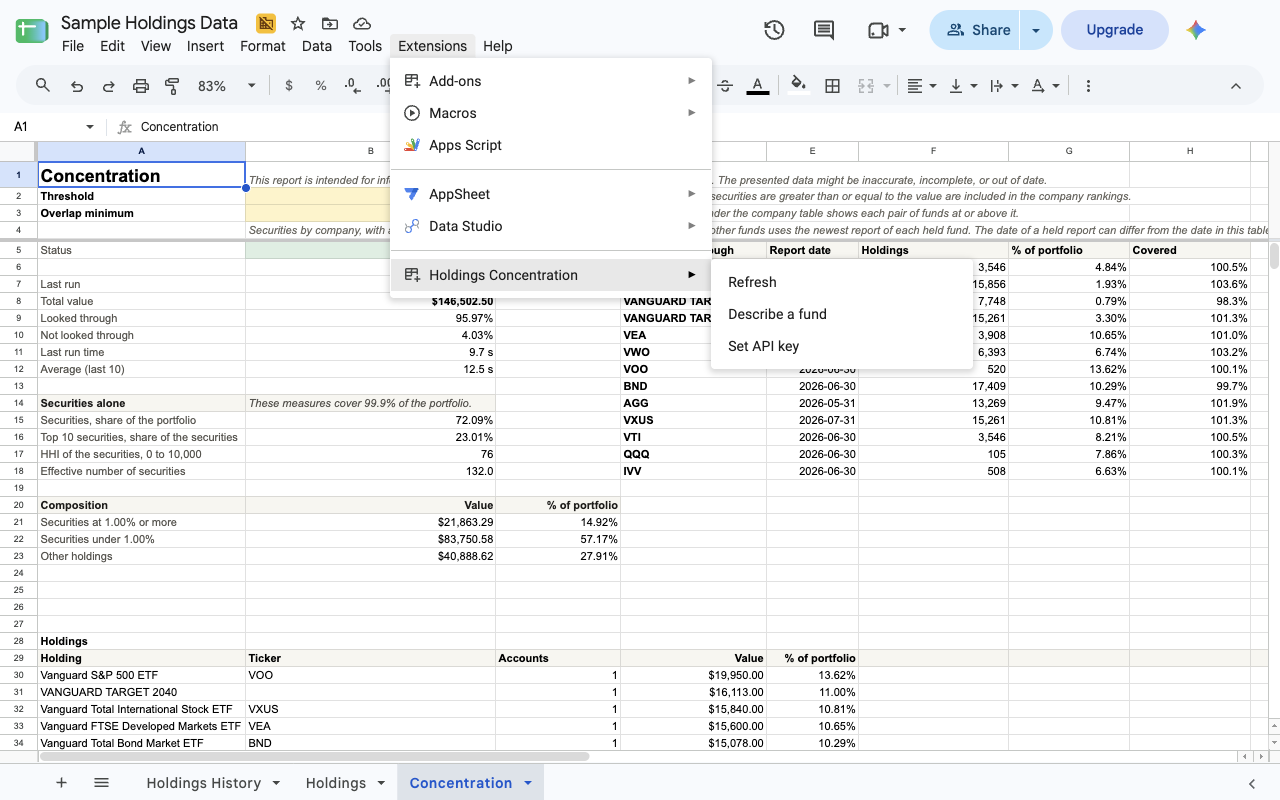
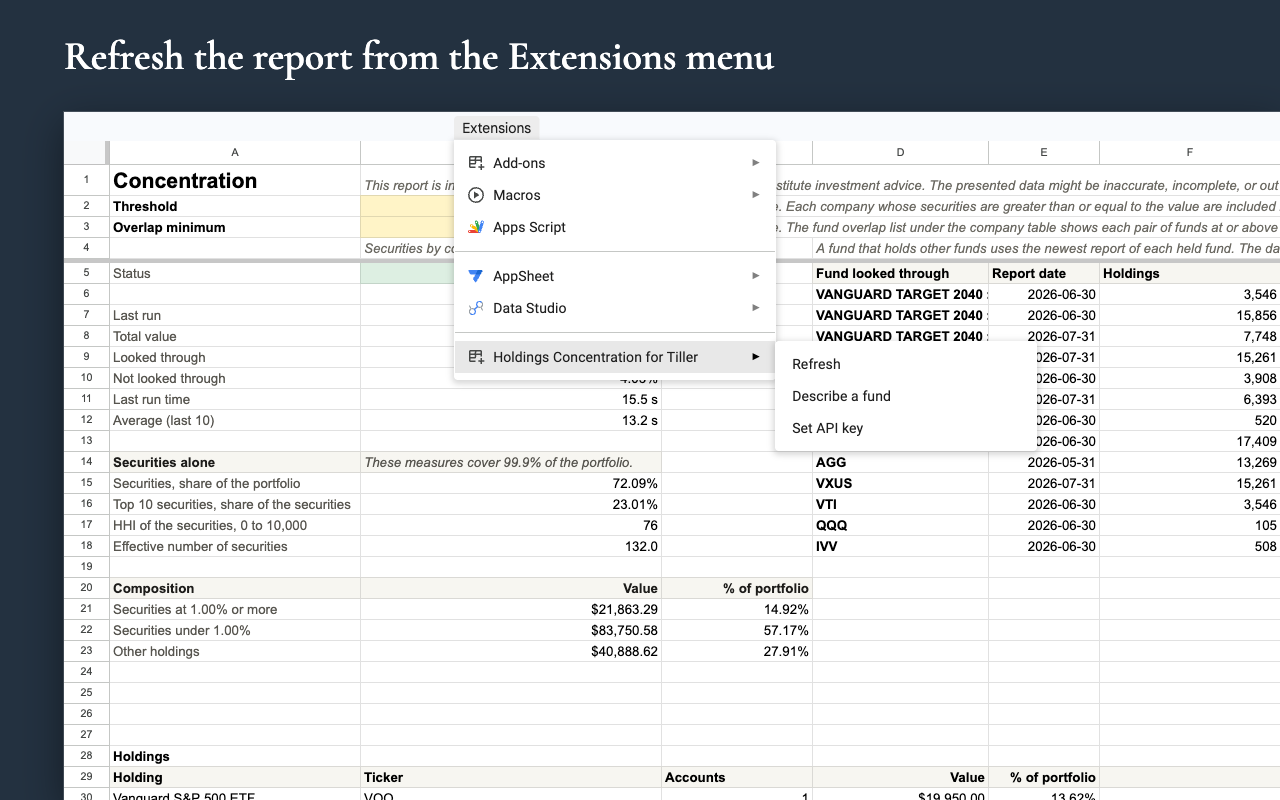
Replace the listing screenshots with five designed frames
Render each screenshot from the frame template frame.html: a slate
background, one caption line in Cormorant Garamond SemiBold, and a
1216 x 688 px crop of a Sheets capture at 100% zoom. Keep the title
bar, the toolbar, the formula bar, the Share button, the account
avatar, and the browser window out of each crop.

Add the option --captures to build.mjs, which renders the five frames
from the captures in a directory. Stop the build when a crop leaves
its capture, when the caption font does not load, or when a caption
is wider than the frame.

Show the report top, the Extensions menu, the company table and
chart, the fund overlap, and the Describe a fund sidebar. Delete the
holdings capture. Point the README images at the new file names, and
replace the capture recipe in listing/graphics/README.md.

diff --git a/listing/graphics/src/frame.html b/listing/graphics/src/frame.html
@@ -1,0 +1,66 @@
+<!doctype html>
+<!--
+  The frame of a listing screenshot, 1280 x 800 px, full bleed. build.mjs
+  writes the caption into the paragraph, and sets the capture and its crop
+  through the custom properties --capture, --crop-x, and --crop-y of the
+  capture box. The capture is a Google Sheets view at 100% zoom, shown at
+  its own pixel size with square corners. The caption is set in Cormorant
+  Garamond SemiBold, which the page loads from Google Fonts. Colors:
+  slate #233140 for the background and white #FFFFFF for the caption.
+-->
+<html lang="en">
+  <head>
+    <meta charset="utf-8" />
+    <link rel="preconnect" href="https://fonts.googleapis.com" />
+    <link rel="preconnect" href="https://fonts.gstatic.com" crossorigin />
+    <link rel="stylesheet" href="https://fonts.googleapis.com/css2?family=Cormorant+Garamond:wght@600&display=block" />
+    <style>
+      :root {
+        --slate: #233140;
+        --white: #ffffff;
+      }
+      html,
+      body {
+        margin: 0;
+        width: 1280px;
+        height: 800px;
+        overflow: hidden;
+        background: var(--slate);
+      }
+      .caption {
+        position: absolute;
+        left: 64px;
+        right: 64px;
+        top: 0;
+        height: 112px;
+        display: flex;
+        align-items: center;
+        margin: 0;
+        color: var(--white);
+        font-family: "Cormorant Garamond", serif;
+        font-weight: 600;
+        font-size: 40px;
+        line-height: 1;
+        white-space: nowrap;
+        overflow: hidden;
+      }
+      .capture {
+        position: absolute;
+        left: 64px;
+        top: 112px;
+        width: 1216px;
+        height: 688px;
+        background-image: var(--capture);
+        background-repeat: no-repeat;
+        background-position: calc(-1px * var(--crop-x)) calc(-1px * var(--crop-y));
+        box-shadow:
+          0 0 0 1px rgba(255, 255, 255, 0.16),
+          0 12px 40px rgba(0, 0, 0, 0.45);
+      }
+    </style>
+  </head>
+  <body>
+    <p class="caption"></p>
+    <div class="capture"></div>
+  </body>
+</html>

diff --git a/listing/graphics/README.md b/listing/graphics/README.md
@@ -2,19 +2,18 @@
 
 The icon, the banner, and the screenshots of the Google Workspace Marketplace listing.
 
-| File                               | Size in pixels | Content                                                                                       |
-| ---------------------------------- | -------------- | --------------------------------------------------------------------------------------------- |
-| `icon-32.png`                      | 32 x 32        | Application icon, transparent background                                                      |
-| `icon-48.png`                      | 48 x 48        | Application icon, transparent background                                                      |
-| `icon-96.png`                      | 96 x 96        | Application icon, transparent background                                                      |
-| `icon-128.png`                     | 128 x 128      | Application icon, transparent background                                                      |
-| `banner-220x140.png`               | 220 x 140      | Application card banner                                                                       |
-| `screenshot-1-report.png`          | 1280 x 800     | The top of the report: the status, the measures, the composition, the funds, and the holdings |
-| `screenshot-2-menu.png`            | 1280 x 800     | The add-on menu under Extensions: Refresh, Describe a fund, and Set API key                   |
-| `screenshot-3-holdings.png`        | 1280 x 800     | The holdings table and the bar chart of the holdings                                          |
-| `screenshot-4-companies.png`       | 1280 x 800     | The company table and the company chart, with the bars stacked by source                      |
-| `screenshot-5-lines.png`           | 1280 x 800     | The fund overlap, the holdings that the report does not look through, and the other holdings  |
-| `screenshot-6-describe-a-fund.png` | 1280 x 800     | The Describe a fund sidebar beside the report, with a saved fund mix                          |
+| File                               | Size in pixels | Content                                                                         |
+| ---------------------------------- | -------------- | ------------------------------------------------------------------------------- |
+| `icon-32.png`                      | 32 x 32        | Application icon, transparent background                                        |
+| `icon-48.png`                      | 48 x 48        | Application icon, transparent background                                        |
+| `icon-96.png`                      | 96 x 96        | Application icon, transparent background                                        |
+| `icon-128.png`                     | 128 x 128      | Application icon, transparent background                                        |
+| `banner-220x140.png`               | 220 x 140      | Application card banner                                                         |
+| `screenshot-1-report.png`          | 1280 x 800     | The top of the report: the status, the measures, and the funds looked through   |
+| `screenshot-2-menu.png`            | 1280 x 800     | The Extensions menu with the add-on menu: Refresh, Describe a fund, Set API key |
+| `screenshot-3-companies.png`       | 1280 x 800     | The company table and the company chart                                         |
+| `screenshot-4-overlap.png`         | 1280 x 800     | The fund overlap and the holdings not looked through                            |
+| `screenshot-5-describe-a-fund.png` | 1280 x 800     | The Describe a fund sidebar beside the report, with a saved fund mix            |
 
 ## Build
 
@@ -26,34 +25,74 @@ npm run build:graphics
 
 The command runs `listing/graphics/src/build.mjs` with the package `playwright` of the root `package.json`. It uses the
 Chromium build of Playwright, or the installed Google Chrome when that build is absent. It renders each icon and the
-banner from its SVG source into its PNG file. It does not write the screenshots. It checks the pixel size of each icon,
-of the banner, and of each screenshot, and it stops with an error when a file does not have its size.
+banner from its SVG source into its PNG file. It checks the pixel size of each icon, of the banner, and of each
+screenshot, and it stops with an error when a file does not have its size.
+
+The command does not write the screenshots, because Git does not hold the captures that they come from. To write the
+screenshots, put the five captures in one directory and run this command:
+
+```sh
+node listing/graphics/src/build.mjs --captures <directory>
+```
 
 ## Sources
 
 - `src/icon.svg` is the icon at 96 and 128 pixels. `src/icon-small.svg` is a simpler icon at 32 and 48 pixels.
 - `src/banner.svg` is the banner. Its words are outlines of the brand font. To change the words, set new outlines from
   the font.
+- `src/frame.html` is the frame of each screenshot: a slate background, one caption line in Cormorant Garamond, and a
+  crop of a capture at its own pixel size. The page loads the font from Google Fonts, so a screenshot build needs a
+  network connection. The list `SHOTS` in `src/build.mjs` holds the caption, the capture file, and the crop of each
+  screenshot. The crop is 1216 x 688 pixels.
 
 ## Screenshots
 
-Each screenshot is a capture of the demo spreadsheet in Google Sheets, on the Concentration tab after a refresh. Every
-name and every number in the demo spreadsheet is invented.
+Each screenshot shows a crop of the demo spreadsheet in Google Sheets, on the Concentration tab after a refresh. Every
+name and every number in the demo spreadsheet is invented. No crop shows the title bar, the toolbar, the formula bar,
+the Share button, the account avatar, or the browser window.
 
-Take each screenshot with these settings:
+### Take the captures
 
-- A browser viewport of 1280 x 800 pixels at a device scale factor of 1.
-- The account avatar hidden.
-- The Sheets zoom and the window of each view:
+1. Open the demo spreadsheet from a test deployment of the add-on (**Deploy > Test deployments** in the Apps Script
+   editor), so that the Extensions menu holds the add-on menu.
+2. Set the Sheets zoom to 100%.
+3. Set a browser viewport of 1280 pixels wide at a device scale factor of 1. Use the height in the table below.
+4. Before each capture, select a cell outside the crop, so that no selection border shows.
+5. Take each capture of the full viewport as a PNG file with the name in the table below.
 
-| File                               | Zoom | Window                                         |
-| ---------------------------------- | ---- | ---------------------------------------------- |
-| `screenshot-1-report.png`          | 83%  | Full screen view, with the formula bar hidden  |
-| `screenshot-2-menu.png`            | 83%  | The normal Sheets window, with the formula bar |
-| `screenshot-3-holdings.png`        | 75%  | Full screen view, with the formula bar hidden  |
-| `screenshot-4-companies.png`       | 75%  | Full screen view, with the formula bar hidden  |
-| `screenshot-5-lines.png`           | 75%  | Full screen view, with the formula bar hidden  |
-| `screenshot-6-describe-a-fund.png` | 83%  | The normal Sheets window                       |
+| Capture         | Height | View                                                                      | Rows at the top of the crop  | Crop x, y |
+| --------------- | ------ | ------------------------------------------------------------------------- | ---------------------------- | --------- |
+| `report.png`    | 860    | **View > Full screen**                                                    | The column letters and row 1 | 0, 29     |
+| `menu.png`      | 1000   | The normal view, with the page changes below and the add-on menu open     | The menu bar and row 1       | 0, 30     |
+| `companies.png` | 1000   | **View > Full screen**                                                    | Row 70                       | 0, 150    |
+| `lines.png`     | 1000   | **View > Full screen**                                                    | Row 108                      | 0, 171    |
+| `sidebar.png`   | 1000   | The normal view, with the page changes below and **Describe a fund** open | The column letters and row 1 | 46, 55    |
+
+To scroll the tab without a reload, set the URL fragment to `#gid=<tab id>&range=A70`. Go to a far row first, such as
+`A300`, so that the target row comes to the top under the frozen rows. Press Escape to leave the full screen view.
+
+The menu and the sidebar need the menu bar, so they use the normal view. For these two captures, add this style to the
+page and then send a `resize` event to the window, so that the grid moves up into the space of the toolbar and the
+formula bar:
+
+```css
+#docs-toolbar-wrapper,
+#docs-additional-bars {
+  display: none !important;
+}
+#docs-header {
+  visibility: hidden !important;
+}
+#docs-menubar > [role="menuitem"]:not(#docs-extensions-menu) {
+  visibility: hidden !important;
+}
+```
+
+For the sidebar capture, also hide `#docs-extensions-menu` with `visibility: hidden`. Close the sidebar with the button
+**Close side sheet**. Reload the page to remove the style.
+
+When a layout change moves a table, find the new top row and the new crop y on a capture, and change the crop in
+`SHOTS`. A caption that is wider than the frame stops the build.
 
 The Google rule for the size, from https://developers.google.com/workspace/marketplace/create-listing#graphic-assets :
 

diff --git a/README.md b/README.md
@@ -253,19 +253,19 @@ The top of the report: the status, the measures, the composition, and the funds 
 
 The company table and the company chart.
 
-![The company table and chart](listing/graphics/screenshot-4-companies.png)
+![The company table and chart](listing/graphics/screenshot-3-companies.png)
 
 ---
 
 The fund overlap list, the holdings not looked through, and the other holdings inside the funds.
 
-![Fund overlap and other holdings](listing/graphics/screenshot-5-lines.png)
+![Fund overlap and other holdings](listing/graphics/screenshot-4-overlap.png)
 
 ---
 
 The Describe a fund sidebar, with a saved fund mix.
 
-![The Describe a fund sidebar](listing/graphics/screenshot-6-describe-a-fund.png)
+![The Describe a fund sidebar](listing/graphics/screenshot-5-describe-a-fund.png)
 
 ## Support
 
